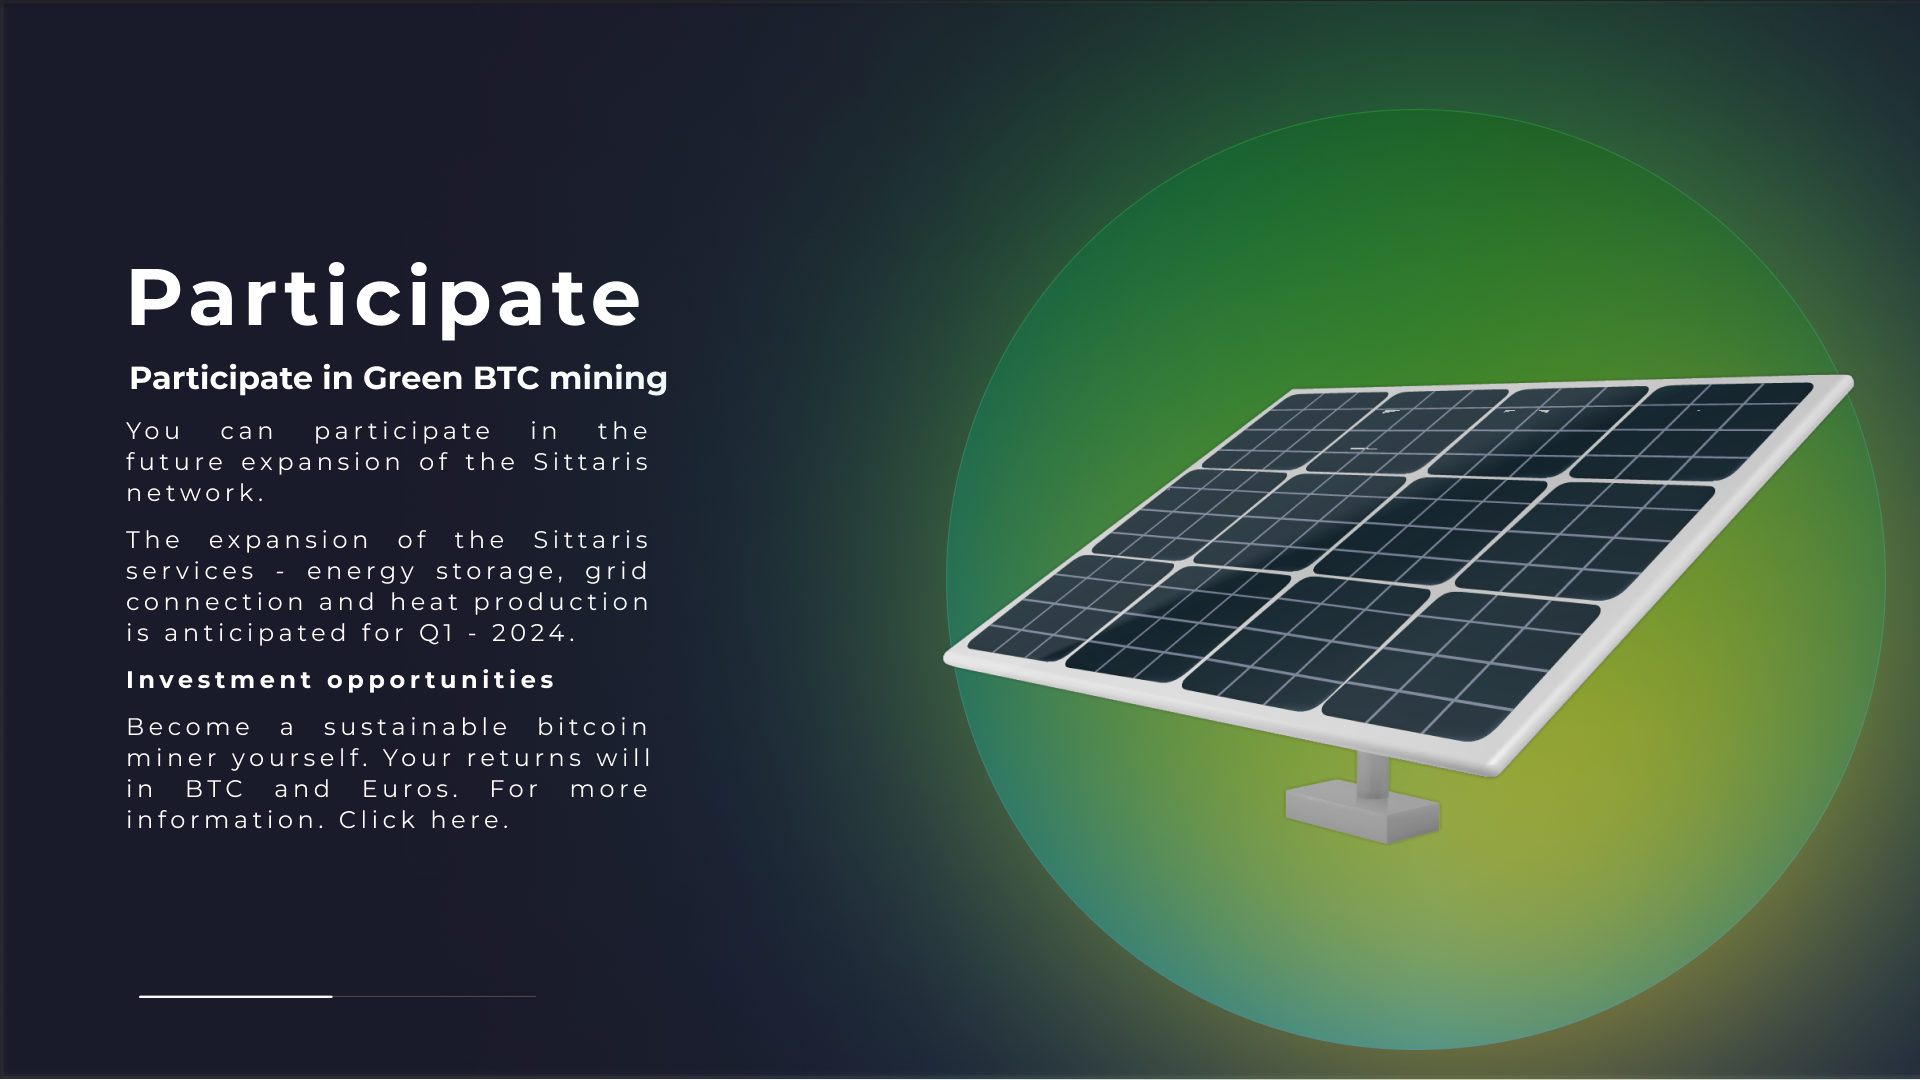
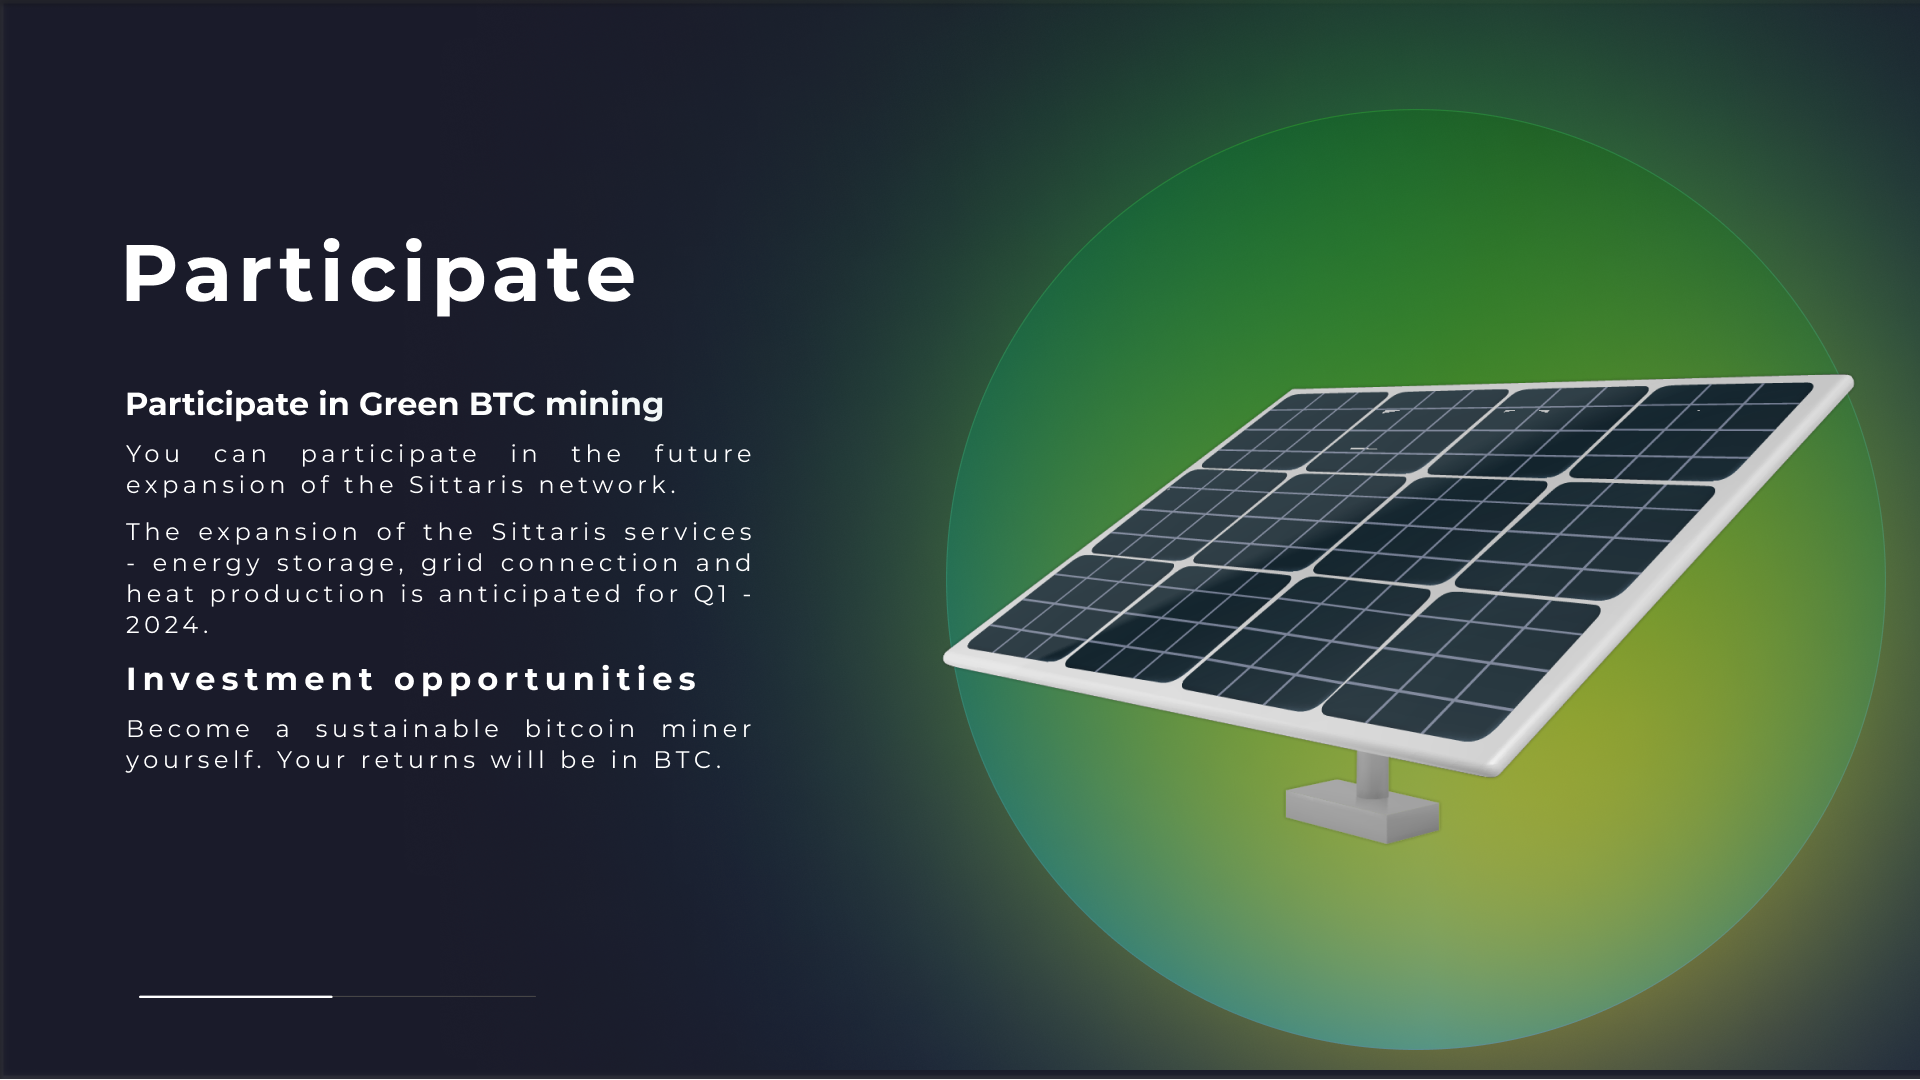
texture

diff --git a/src/components/ProductDesign.jsx b/src/components/ProductDesign.jsx
@@ -60,15 +60,27 @@ const ProductDesign = () => {
 
 
       <Desc>
-      <ProductsText> <b> Products </b> </ProductsText>
+      <ProductsText> <b> Product </b> </ProductsText>
   < POEText> <b> POE </b> </POEText>
-        Sittaris generates the energy used for Bitcoin mining with solar panels that are place on top of greenhouses. Trio Investment BV is an investment
-        company that invests in sustainable energy in Europe and emerging markets. With Sittaris they offer investment opportunities with returns in bitcoin and euros.
+  Green Bitcoin Mining
+Sittaris generates the energy used for Bitcoin mining with 
+solar panels that are place on top of greenhouses. Trio 
+Investment BV is an investment company that invests in 
+sustainable energy in Europe and emerging markets. With 
+Sittaris they offer investment opportunities with returns in 
+bitcoin and euros.
 
-        Sittaris uses blockchain technology to introduce a trustless framework known as "Proof of Energy" (“POE”) for transparently verifying the source
-        and quantity of energy generated. Energy generated in our solar parks is sold back to the grid or channeled into a green-mining setup to generate Bitcoin.
-        At the core of our operations, we not only achieve zero emissions but also zero waste through the efficient use of excess mining-generated heat in our greenhouses.
+Proof of Energy (POE)
+Sittaris uses blockchain technology to introduce a trustless 
+framework known as "Proof of Energy" (“POE”) for 
+transparently verifying the source and quantity of energy 
+generated. Energy generated in our solar parks is sold back 
+to the grid or channeled into a green-mining setup to 
+generate Bitcoin.
 
+At the core of our operations, we not only achieve zero 
+emissions but also zero waste through the efficient use of 
+excess mining-generated heat in our greenhouses.
 
       </Desc>
 

diff --git a/src/sections/Hero.jsx b/src/sections/Hero.jsx
@@ -82,7 +82,8 @@ const Line = styled.img`
 
 const Subtitle = styled.h2`
   font-weight: bold;
-  color: #083432;
+  color: #000000
+  ;
   font-size: 12px;
   margin-bottom: 20px !important; /* Adjust the margin as needed to create more space */
 `;
@@ -159,7 +160,7 @@ const Hero = () => {
           <WhatWeDo>
             <Subtitle>Solar Powered Blockchain</Subtitle>
           </WhatWeDo>
-          <Desc>The Sittaris Project is a new endeavor by Trio Investment BV that unites state-of-the-art technologies to redefine the landscape of energy production and Bitcoin mining. Our primary commitment revolves around sustainability, zero-waste, zero-emission, and eco-consciousness.</Desc>
+          <Desc>The Sittaris Project is a new endeavor that unites state-of-the-art technologies to redefine the landscape of energy production and Bitcoin mining. Our primary commitment revolves around sustainability, zero-waste, zero-emission, and eco-consciousness.</Desc>
           
         </Left>
         <Right>
@@ -172,7 +173,7 @@ const Hero = () => {
               <Atom />
             </Suspense>
           </Canvas>
-          <Img src="./img/Sittaris_2.png" />
+          <Img src="./img/Sittaris_3.png" />
         </Right>
       </Container>
     </Section>
